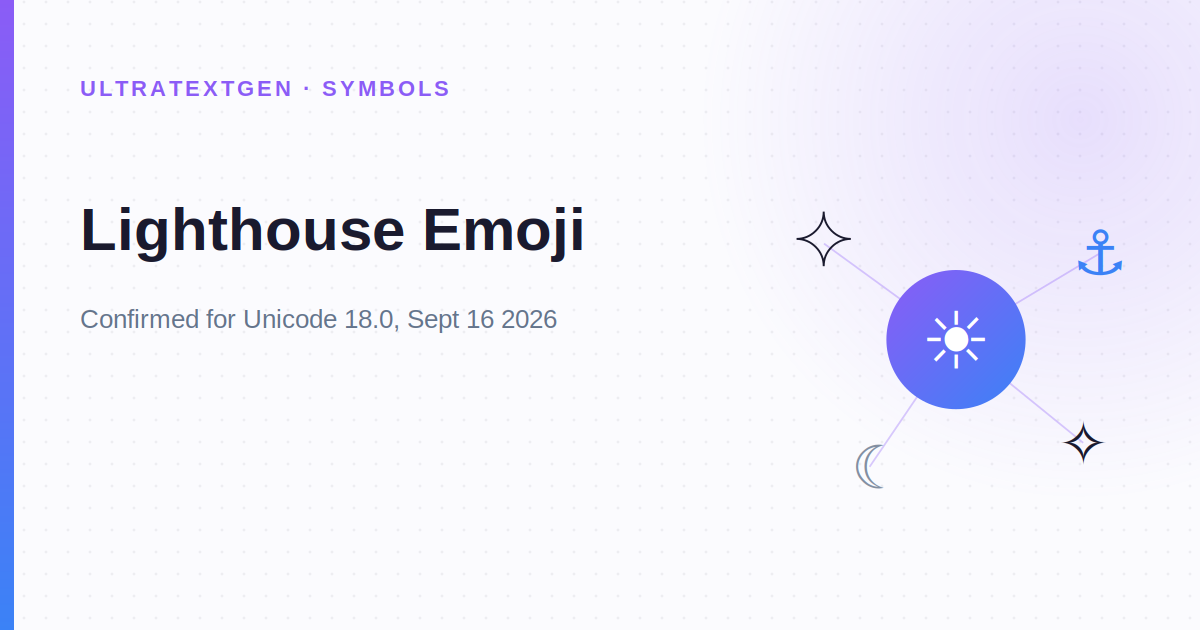
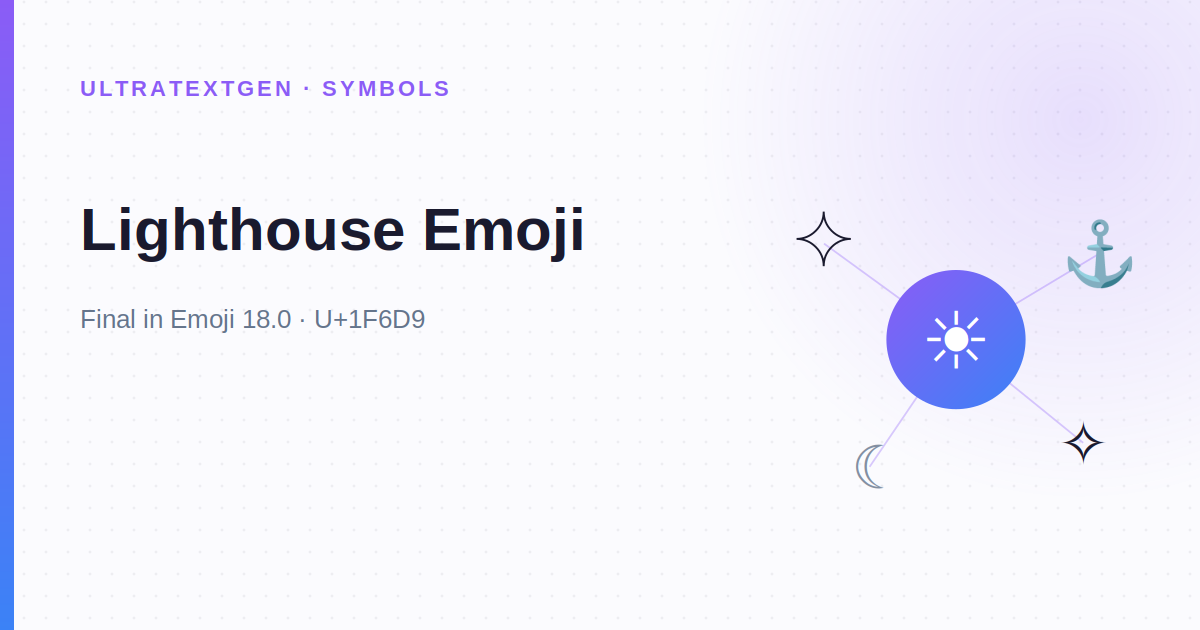
chore(art): symbol cards for the Unicode 18 signs and Emoji 18.0 emoji say final
Card sub lines now carry only durable facts ("Final in Emoji 18.0 · U+1FADD"),
per the new title rule. Heroes unchanged.

Claude-Session: https://claude.ai/code/session_01HqBuKfkapH3hJQtBMi2cnA

Changed region(s): [[0.0617, 0.4825, 0.4625, 0.5429], [0.8942, 0.3317, 0.9558, 0.4524]]

diff --git a/scripts/generate-site-art.py b/scripts/generate-site-art.py
@@ -2230,16 +2230,16 @@ PAGES = {
   "symbol-tilde-symbol": ("Tilde Symbol", "~ meaning, history & how to type it", glyphs("~"), K_SYM),
   "symbol-underscore-symbol": ("Underscore", "_ meaning, history & how to type it", glyphs("_"), K_SYM),
   "symbol-calendar-emoji": ("Calendar Emoji", "Why it's always frozen on July 17", m_calendar, K_SYM),
-  "symbol-lighthouse-emoji": ("Lighthouse Emoji", "Confirmed for Unicode 18.0, Sept 16 2026",
+  "symbol-lighthouse-emoji": ("Lighthouse Emoji", "Final in Emoji 18.0 · U+1F6D9",
         glyphs("☀", "✦", "⚓", "☾", "✧"), K_SYM),
-  "symbol-cracking-face-emoji": ("Cracking Face Emoji", "Draft Emoji 18.0 candidate, not live yet", m_smiley, K_SYM),
+  "symbol-cracking-face-emoji": ("Cracking Face Emoji", "Final in Emoji 18.0 · U+1FAEB", m_smiley, K_SYM),
   "symbol-distorted-face-emoji": ("Distorted Face Emoji", "U+1FAEA — meaning, codepoint & origin", m_smiley, K_SYM),
   "symbol-melting-face-emoji": ("Melting Face Emoji", "U+1FAE0 — meaning, sarcasm reading & origin", m_smiley, K_SYM),
-  "symbol-pickle-emoji": ("Pickle Emoji", "Draft Emoji 18.0 candidate, not live yet", m_cup, K_SYM),
-  "symbol-meteor-emoji": ("Meteor Emoji", "Draft Emoji 18.0 candidate, not live yet",
+  "symbol-pickle-emoji": ("Pickle Emoji", "Final in Emoji 18.0 · U+1FADD", m_cup, K_SYM),
+  "symbol-meteor-emoji": ("Meteor Emoji", "Final in Emoji 18.0 · U+1FA8B",
         glyphs("☄", "✦", "★", "☆", "✧"), K_SYM),
-  "symbol-monarch-butterfly-emoji": ("Monarch Butterfly Emoji", "Draft Emoji 18.0 candidate, not live yet", m_paw, K_SYM),
-  "symbol-thumb-sign-emoji": ("Thumb Sign Emoji", "Draft Emoji 18.0 candidate, not live yet",
+  "symbol-monarch-butterfly-emoji": ("Monarch Butterfly Emoji", "Final in Emoji 18.0 · U+1FACC", m_paw, K_SYM),
+  "symbol-thumb-sign-emoji": ("Thumb Sign Emoji", "Final in Emoji 18.0 · U+1FAF9, U+1FAFA",
         glyphs("☝", "☞", "☜", "☟", "✌"), K_SYM),
   # Emoji 17.0, live on phones since iOS 26.4 (2026-03-24). Each is registered
   # against a DRAWN motif rather than its own glyph: no font on the build box
@@ -2249,10 +2249,10 @@ PAGES = {
   "symbol-trombone-emoji": ("Trombone Emoji", "U+1FA8A, the slide that earned its own glyph", m_note, K_SYM),
   "symbol-treasure-chest-emoji": ("Treasure Chest Emoji", "U+1FA8E, filed under money, not objects", m_coin, K_SYM),
   "symbol-fight-cloud-emoji": ("Fight Cloud Emoji", "U+1FAEF, a century-old cartoon shorthand", m_burst_angry, K_SYM),
-  "symbol-dirham-sign": ("Dirham Sign", "Frozen for Unicode 18.0 publication", m_coin, K_SYM),
-  "symbol-omani-rial-sign": ("Omani Rial Sign", "Frozen for Unicode 18.0 publication", m_coin, K_SYM),
+  "symbol-dirham-sign": ("Dirham Sign", "Final in Unicode 18.0 · U+20C3, the UAE dirham", m_coin, K_SYM),
+  "symbol-omani-rial-sign": ("Omani Rial Sign", "Final in Unicode 18.0 · U+20C4, Oman's rial", m_coin, K_SYM),
   "symbol-saudi-riyal-sign": ("Saudi Riyal Sign", "Final since Unicode 17.0", m_coin, K_SYM),
-  "symbol-rufiyaa-sign": ("Rufiyaa Sign", "Accepted for Unicode 18.0 publication", m_coin, K_SYM),
+  "symbol-rufiyaa-sign": ("Rufiyaa Sign", "Final in Unicode 18.0 · U+20C2, the Maldives' rufiyaa", m_coin, K_SYM),
   "symbol-belarusian-ruble-sign": ("Belarusian Ruble Sign", "Provisional at U+20C5, targeting Unicode 19.0", m_coin, K_SYM),
   "ru-symbol-znak-belorusskogo-rublya": ("Знак белорусского рубля", "Предварительно U+20C5, прицел на Unicode 19.0", m_coin, K_SYM),
 
